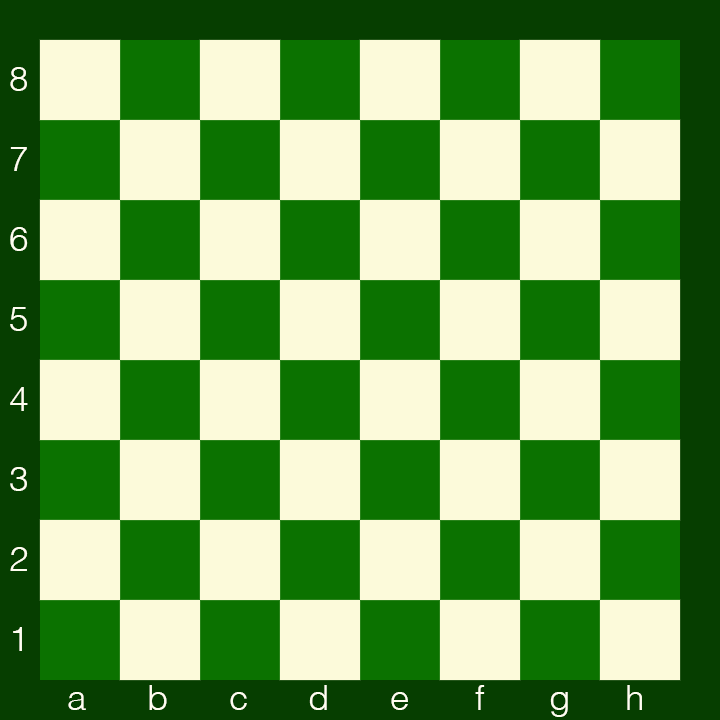
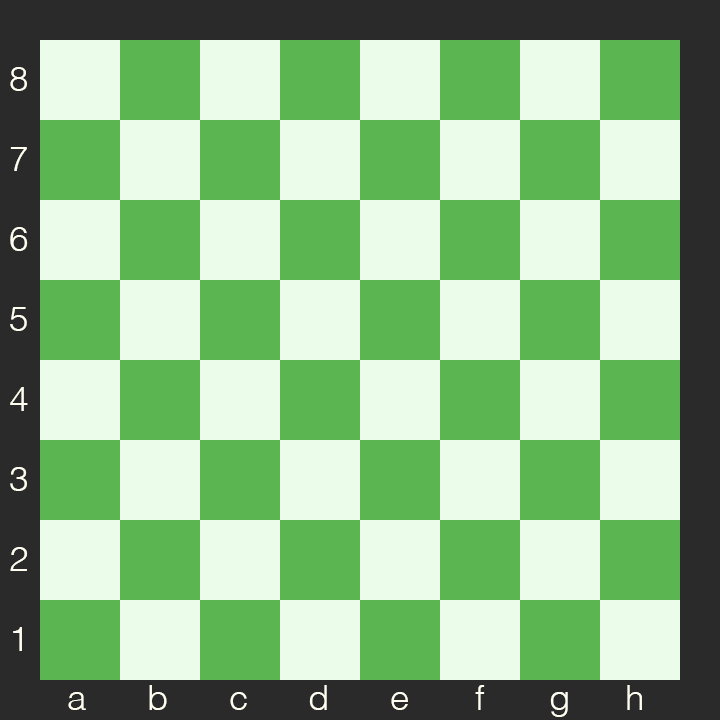
Update style; Add square movement highlight

diff --git a/src/main.rs b/src/main.rs
@@ -62,7 +62,24 @@ lazy_static! {
 
 	static ref BOARD_IMG_WHITE: Image = raster::open("res/board_annotated_white.png").unwrap();
 	static ref BOARD_IMG_BLACK: Image = raster::open("res/board_annotated_black.png").unwrap();
-	static ref PIECES_IMG: Image = raster::open("res/pieces.png").unwrap();
+
+	static ref PAWNS_IMG: Image = raster::open("res/pawns.png").unwrap();
+	static ref KNIGHTS_IMG: Image = raster::open("res/knights.png").unwrap();
+	static ref BISHOPS_IMG: Image = raster::open("res/bishops.png").unwrap();
+	static ref ROOKS_IMG: Image = raster::open("res/rooks.png").unwrap();
+	static ref QUEENS_IMG: Image = raster::open("res/queens.png").unwrap();
+	static ref KINGS_IMG: Image = raster::open("res/kings.png").unwrap();
+
+	static ref YELLOW_SQUARE: Image = {
+		let mut img = raster::Image::blank(80, 80);
+		raster::editor::fill(&mut img, raster::Color::rgb(255, 255, 127));
+		img
+	};
+	static ref RED_SQUARE: Image = {
+		let mut img = raster::Image::blank(80, 80);
+		raster::editor::fill(&mut img, raster::Color::rgb(255, 83, 83));
+		img
+	};
 }
 
 #[group]
@@ -109,10 +126,12 @@ impl EventHandler for Handler {
 				if MOVE_REGEX.is_match(&msg.content) || CASTLE_REGEX.is_match(&msg.content) {
 					let result = ChessMove::from_san(&gm.game.current_position(), &msg.content);
 					match result {
-						Err(chess::Error::InvalidBoard) => { msg.reply(ctx, format!("Ill-formed move: {}", msg.content)).unwrap(); },
-						Err(_) => { msg.reply(ctx, format!("Illegal move: {}", msg.content)).unwrap(); }
+						Err(game::MoveError::IllFormed) => { msg.reply(ctx, format!("Ill-formed move: {}", msg.content)).unwrap(); },
+						Err(game::MoveError::Illegal) => { msg.reply(ctx, format!("Illegal move: {}", msg.content)).unwrap(); }
+						Err(game::MoveError::Ambiguous) => { msg.reply(ctx, format!("Ambiguous move: {}", msg.content)).unwrap(); }
 						Ok(mv) => {
 							gm.game.make_move(mv);
+							gm.last_move = Some(mv);
 							gm.draw_offer = None;
 							post_board(&ctx, gm, &msg.channel(&ctx).unwrap().guild().unwrap().read()).unwrap();
 						}
@@ -127,9 +146,16 @@ fn main() {
 	use std::io::Write;
 	print!("Loading images...");
 	std::io::stdout().lock().flush().unwrap();
+
 	lazy_static::initialize(&BOARD_IMG_WHITE);
 	lazy_static::initialize(&BOARD_IMG_BLACK);
-	lazy_static::initialize(&PIECES_IMG);
+	lazy_static::initialize(&PAWNS_IMG);
+	lazy_static::initialize(&KNIGHTS_IMG);
+	lazy_static::initialize(&BISHOPS_IMG);
+	lazy_static::initialize(&ROOKS_IMG);
+	lazy_static::initialize(&QUEENS_IMG);
+	lazy_static::initialize(&KINGS_IMG);
+
 	println!(" Done.");
 
 	let mut client = Client::new(std::env::var("DISCORD_TOKEN").unwrap(), Handler).expect("Error creating client");
@@ -165,37 +191,48 @@ fn post_board(ctx: &Context, gm: &mut ChannelGame, ch: &GuildChannel) -> Command
 			const RANK_INDEX: [Rank; 8] = [Rank::Eighth, Rank::Seventh, Rank::Sixth, Rank::Fifth, Rank::Fourth, Rank::Third, Rank::Second, Rank::First];
 			const FILE_INDEX: [File; 8] = [File::A, File::B, File::C, File::D, File::E, File::F, File::G, File::H];
 
-			const BASE_OFFSET: i32 = 5;
-			const PIECE_OFFSET: i32 = 95;
-			const WHITE_OFFSET: i32 = 80;
+			let posx: usize;
+			let posy: usize;
+			if use_black {
+				posx = 7 - x;
+				posy = 7 - y;
+			} else {
+				posx = x;
+				posy = y;
+			}
 
 			let square = Square::make_square(RANK_INDEX[y], FILE_INDEX[x]);
-			if let Some(piece) = gm.game.current_position().piece_on(square) {
-				let mut piece_img = PIECES_IMG.clone();
-				raster::editor::crop(&mut piece_img, 55, 55, PositionMode::TopLeft, BASE_OFFSET + PIECE_OFFSET * (match piece {
-					Piece::King => 0,
-					Piece::Queen => 1,
-					Piece::Rook => 2,
-					Piece::Bishop => 3,
-					Piece::Knight => 4,
-					Piece::Pawn => 5
-				}), if gm.game.current_position().color_on(square) == Some(Color::White) { WHITE_OFFSET } else { 0 }).unwrap();
-				raster::editor::resize(&mut piece_img, 80, 80, ResizeMode::Exact).unwrap();
-				let posx: usize;
-				let posy: usize;
-				if use_black {
-					posx = 7 - x;
-					posy = 7 - y;
-				} else {
-					posx = x;
-					posy = y;
+			if let Some(last_move) = gm.last_move {
+				if square == last_move.get_source() || square == last_move.get_dest() {
+					board = raster::editor::blend(&board, &YELLOW_SQUARE, BlendMode::Normal, 1.0, PositionMode::TopLeft, (40 + posx * 80) as i32, (40 + posy * 80) as i32).unwrap();
 				}
+			}
+			
+			if let Some(piece) = gm.game.current_position().piece_on(square) {
+				let (mut piece_img, white_ctr, black_ctr) = match piece {
+					Piece::Pawn => (PAWNS_IMG.clone(), 46, 116),
+					Piece::Knight => (KNIGHTS_IMG.clone(), 45, 120),
+					Piece::Bishop => (BISHOPS_IMG.clone(), 43, 118),
+					Piece::Rook => (ROOKS_IMG.clone(), 45, 116),
+					Piece::Queen => (QUEENS_IMG.clone(), 42, 120),
+					Piece::King => (KINGS_IMG.clone(), 42, 118),
+				};
+				raster::editor::crop(
+					&mut piece_img,
+					80, 80, PositionMode::TopLeft,
+					if gm.game.current_position().color_on(square) == Some(Color::White) {
+						white_ctr - 40
+					} else {
+						black_ctr - 40
+					},
+					0
+				).unwrap();
+				// raster::editor::resize(&mut piece_img, 80, 80, ResizeMode::Exact).unwrap();
 				board = raster::editor::blend(&board, &piece_img, BlendMode::Normal, 1.0, PositionMode::TopLeft, (40 + posx * 80) as i32, (40 + posy * 80) as i32).unwrap();
 			}
 		}
 	}
 
-	println!("Encoding image");
 	let bytes = {
 		use png::{Encoder, Compression, ColorType, BitDepth};
 
@@ -212,7 +249,6 @@ fn post_board(ctx: &Context, gm: &mut ChannelGame, ch: &GuildChannel) -> Command
 		bytes
 	};
 
-	println!("Sending board...");
 	let sent = ch.send_message(
 		ctx,
 		|c| {
@@ -252,12 +288,8 @@ fn post_board(ctx: &Context, gm: &mut ChannelGame, ch: &GuildChannel) -> Command
 			}
 			gm.old_boards.push_back(sent);
 		}
-		"off" => {}
-		_ => {
-			panic!("Unexpected value for deleteOld");
-		}
+		_ => {} // Includes "off"
 	}
-	println!("Sent");
 
 	Ok(())
 }

diff --git a/src/game.rs b/src/game.rs
@@ -11,6 +11,7 @@ pub struct ChannelGame {
 	pub black: UserId,
 	pub initiator: Color,
 	pub draw_offer: Option<Color>,
+	pub last_move: Option<ChessMove>,
 }
 
 impl ChannelGame {
@@ -24,6 +25,7 @@ impl ChannelGame {
 			black: UserId::default(),
 			initiator: Color::White,
 			draw_offer: None,
+			last_move: None,
 		}
 	}
 
@@ -44,8 +46,14 @@ impl ChannelGame {
 	}
 }
 
+pub enum MoveError {
+	Illegal,
+	IllFormed,
+	Ambiguous,
+}
+
 pub trait FromSan {
-	fn from_san(board: &Board, move_text: &str) -> Result<ChessMove, Error>;
+	fn from_san(board: &Board, move_text: &str) -> Result<ChessMove, MoveError>;
 }
 
 impl FromSan for ChessMove {
@@ -63,7 +71,7 @@ impl FromSan for ChessMove {
 	///     ChessMove::new(Square::E2, Square::E4, None)
 	/// );
 	/// ```
-	fn from_san(board: &Board, move_text: &str) -> Result<ChessMove, Error> {
+	fn from_san(board: &Board, move_text: &str) -> Result<ChessMove, MoveError> {
 		// Castles first...
 		if move_text == "O-O" || move_text == "O-O-O" {
 			let rank = board.side_to_move().to_my_backrank();
@@ -78,7 +86,7 @@ impl FromSan for ChessMove {
 			if MoveGen::new_legal(&board).any(|l| l == m) {
 				return Ok(m);
 			} else {
-				return Err(Error::InvalidBoard);
+				return Err(MoveError::Illegal);
 			}
 		}
 
@@ -135,7 +143,7 @@ impl FromSan for ChessMove {
 		let mut cur_index: usize = 0;
 		let moving_piece = match move_text
 			.get(cur_index..(cur_index + 1))
-			.ok_or(Error::InvalidBoard)?
+			.ok_or(MoveError::IllFormed)?
 		{
 			"N" => {
 				cur_index += 1;
@@ -162,7 +170,7 @@ impl FromSan for ChessMove {
 
 		let mut source_file = match move_text
 			.get(cur_index..(cur_index + 1))
-			.ok_or(Error::InvalidBoard)?
+			.ok_or(MoveError::IllFormed)?
 		{
 			"a" => {
 				cur_index += 1;
@@ -201,7 +209,7 @@ impl FromSan for ChessMove {
 
 		let mut source_rank = match move_text
 			.get(cur_index..(cur_index + 1))
-			.ok_or(Error::InvalidBoard)?
+			.ok_or(MoveError::IllFormed)?
 		{
 			"1" => {
 				cur_index += 1;
@@ -256,8 +264,8 @@ impl FromSan for ChessMove {
 				q
 			} else {
 				let sq = Square::make_square(
-					source_rank.ok_or(Error::InvalidBoard)?,
-					source_file.ok_or(Error::InvalidBoard)?,
+					source_rank.ok_or(MoveError::IllFormed)?,
+					source_file.ok_or(MoveError::IllFormed)?,
 				);
 				source_rank = None;
 				source_file = None;
@@ -265,8 +273,8 @@ impl FromSan for ChessMove {
 			}
 		} else {
 			let sq = Square::make_square(
-				source_rank.ok_or(Error::InvalidBoard)?,
-				source_file.ok_or(Error::InvalidBoard)?,
+				source_rank.ok_or(MoveError::IllFormed)?,
+				source_file.ok_or(MoveError::IllFormed)?,
 			);
 			source_rank = None;
 			source_file = None;
@@ -330,7 +338,7 @@ impl FromSan for ChessMove {
 		//}
 
 		// Ok, now we have all the data from the SAN move, in the following structures
-		// moveing_piece, source_rank, source_file, taks, dest, promotion, maybe_check_or_mate, and
+		// moving_piece, source_rank, source_file, taks, dest, promotion, maybe_check_or_mate, and
 		// ep
 
 		let mut found_move: Option<ChessMove> = None;
@@ -361,7 +369,8 @@ impl FromSan for ChessMove {
 			}
 
 			if found_move.is_some() {
-				return Err(Error::InvalidFen{fen: String::from("")});
+				// There's more than one move which fits the properties
+				return Err(MoveError::Ambiguous);
 			}
 
 			// takes is complicated, because of e.p.
@@ -380,6 +389,6 @@ impl FromSan for ChessMove {
 			found_move = Some(m);
 		}
 
-		found_move.ok_or(Error::InvalidFen{fen: String::from("")})
+		found_move.ok_or(MoveError::Illegal)
 	}
 }
